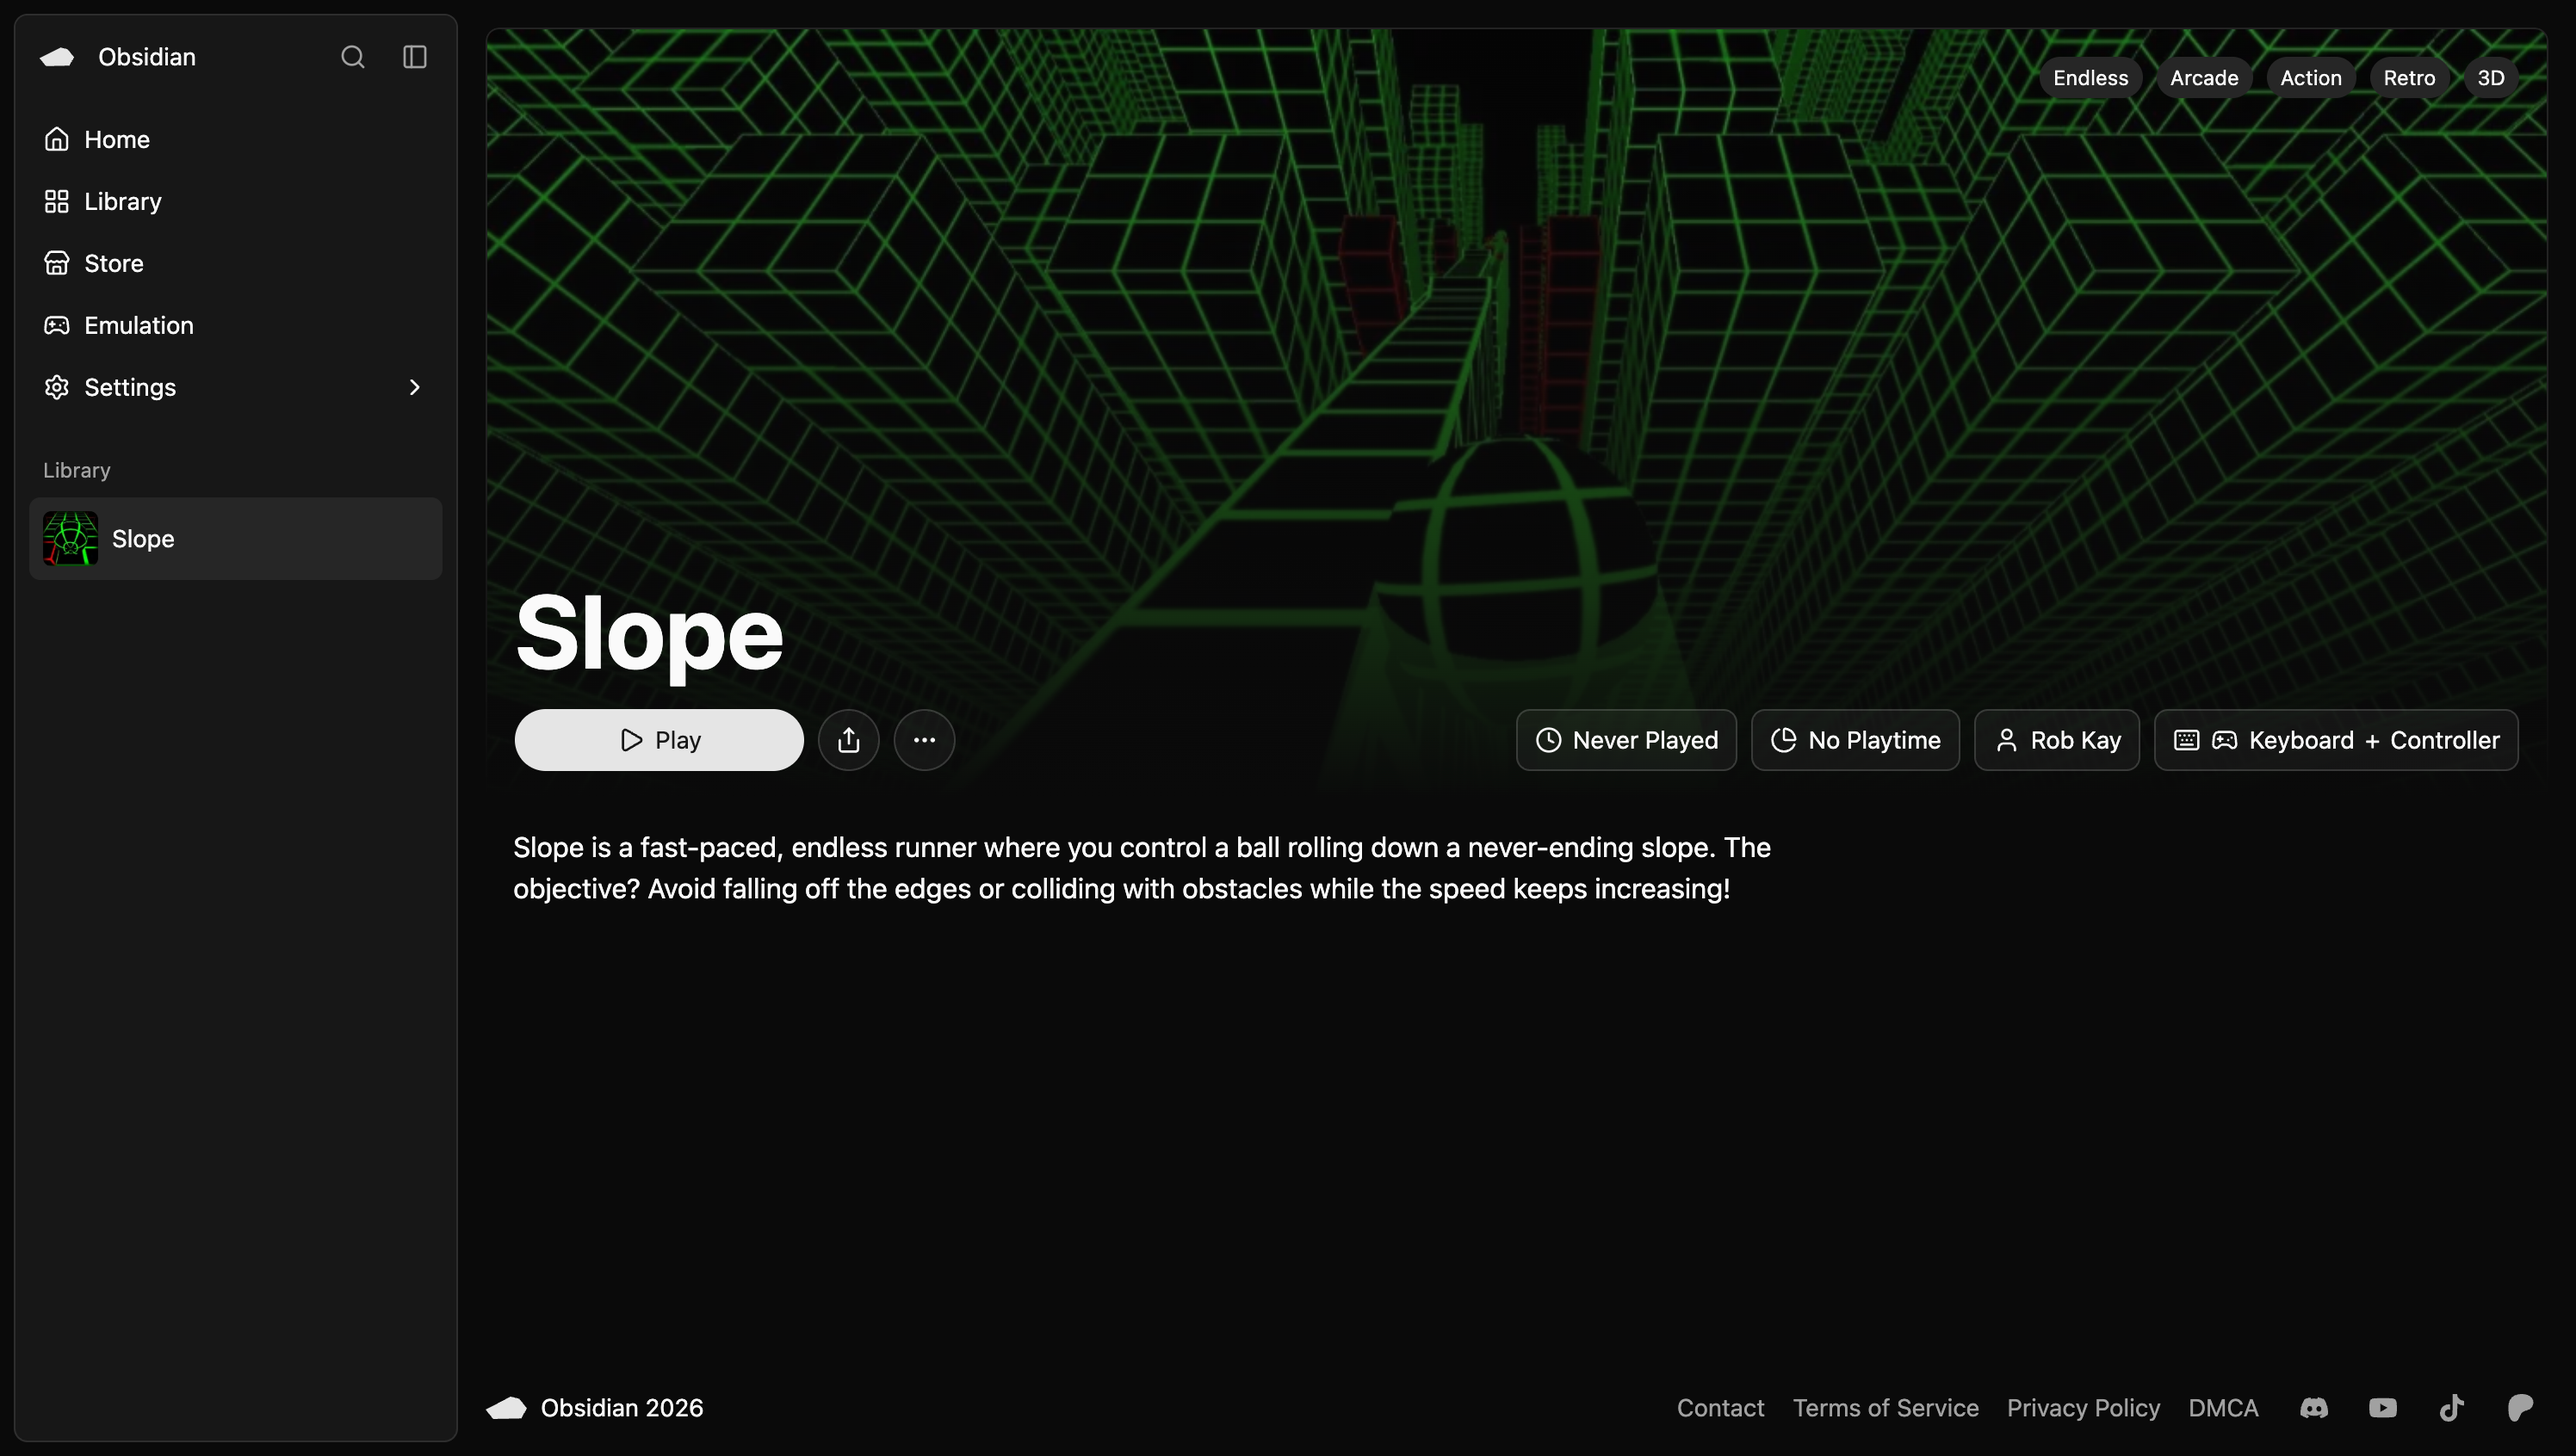
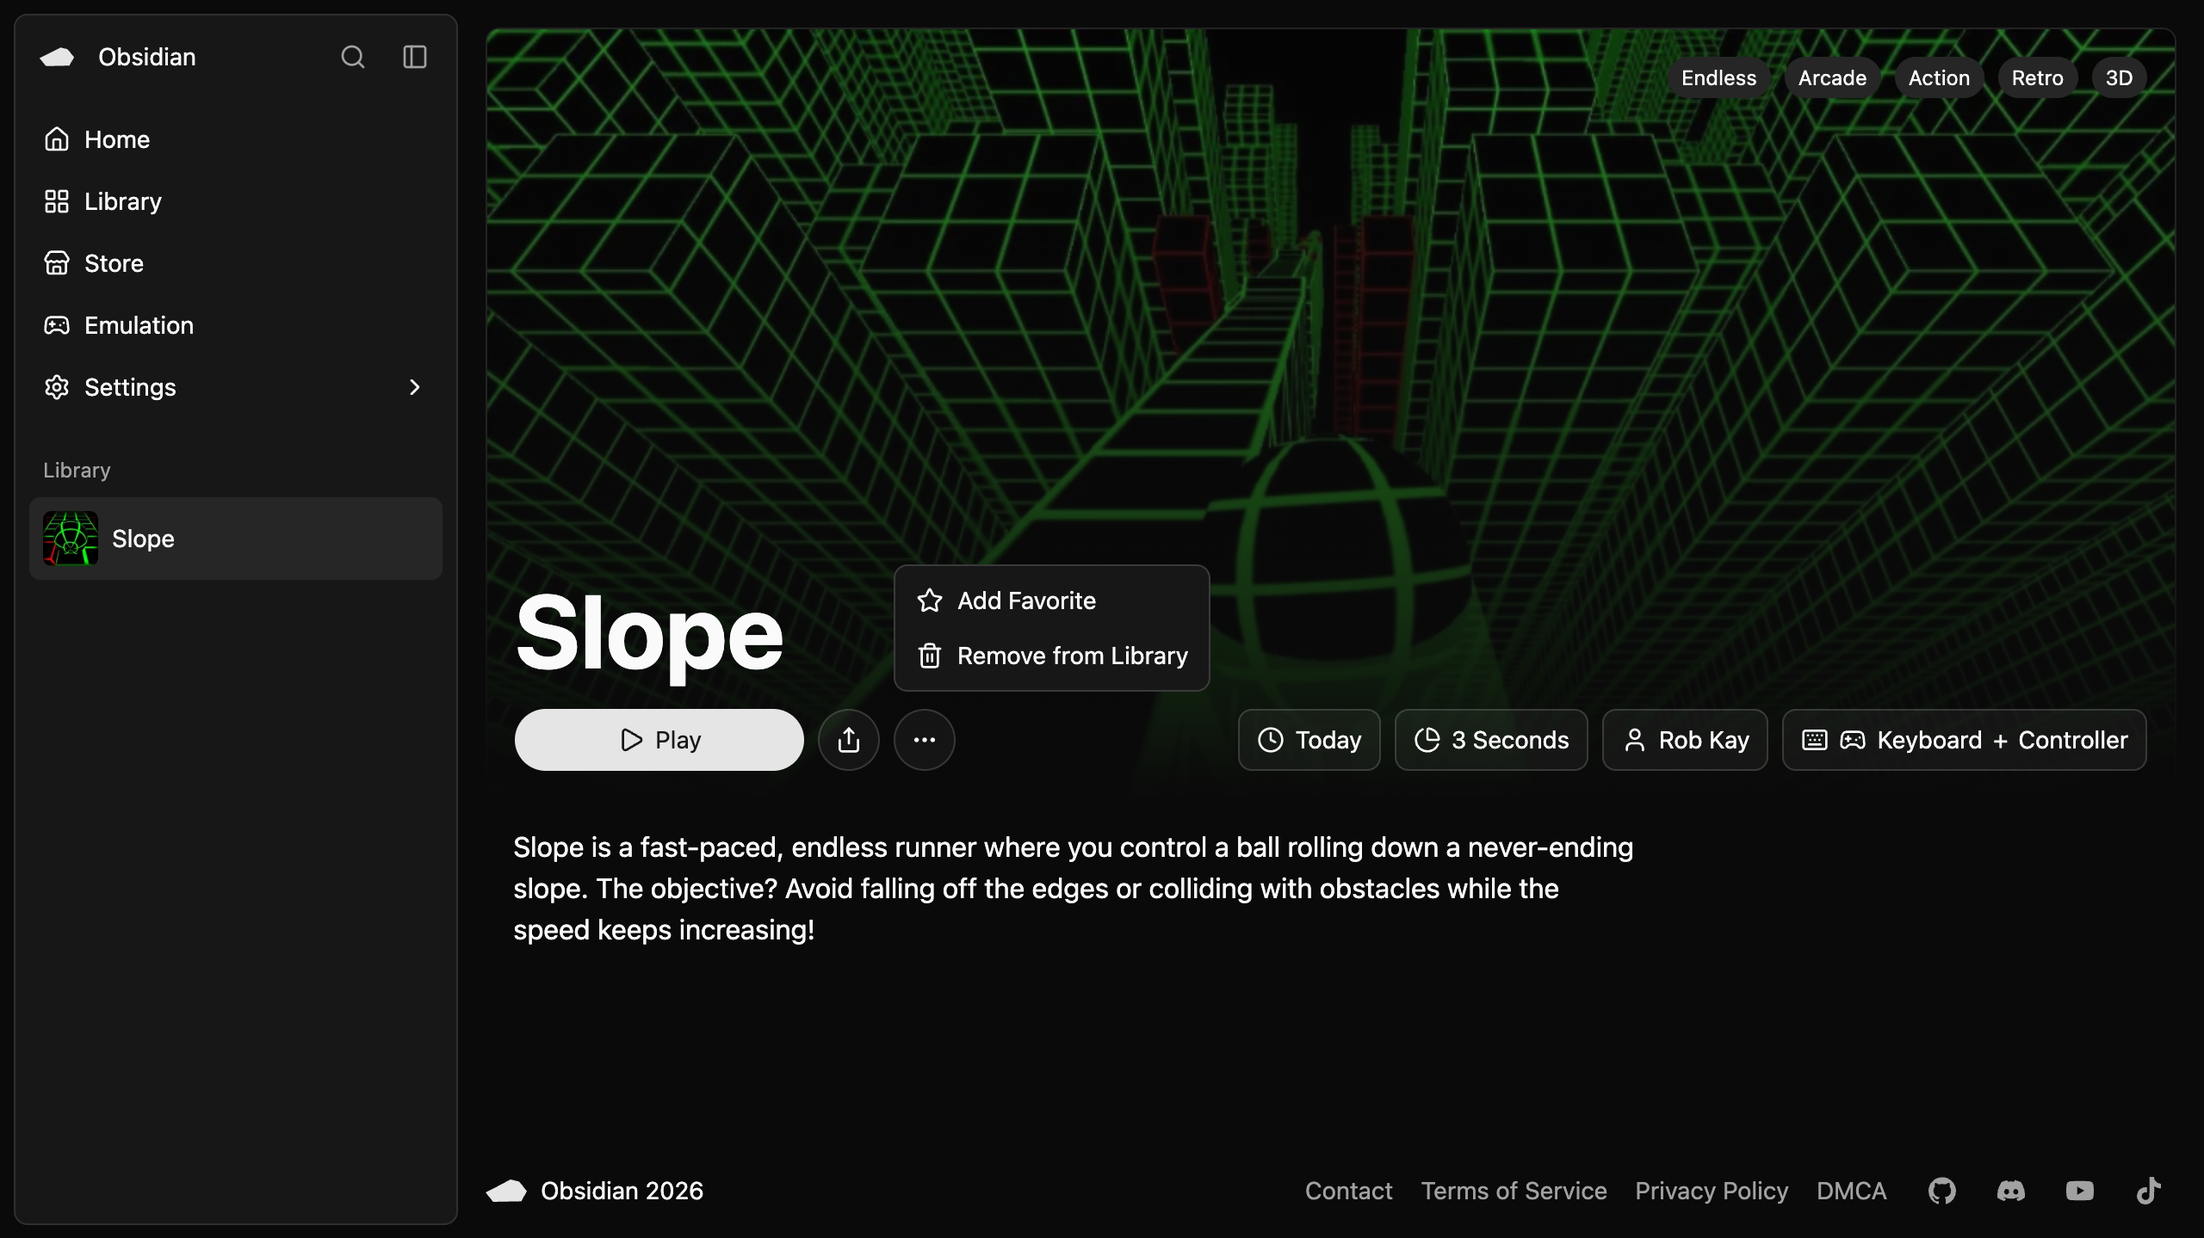
Update screenshots

diff --git a/src/app.html b/src/app.html
@@ -11,7 +11,7 @@
     <meta property="og:description" content="Play instantly. No downloads." />
     <meta
       property="og:image"
-      content="https://playobsidian.com/assets/logo-512.png"
+      content="https://playobsidian.com/assets/logo.png"
     />
     <meta name="theme-color" content="transparent" />
     %sveltekit.head%
